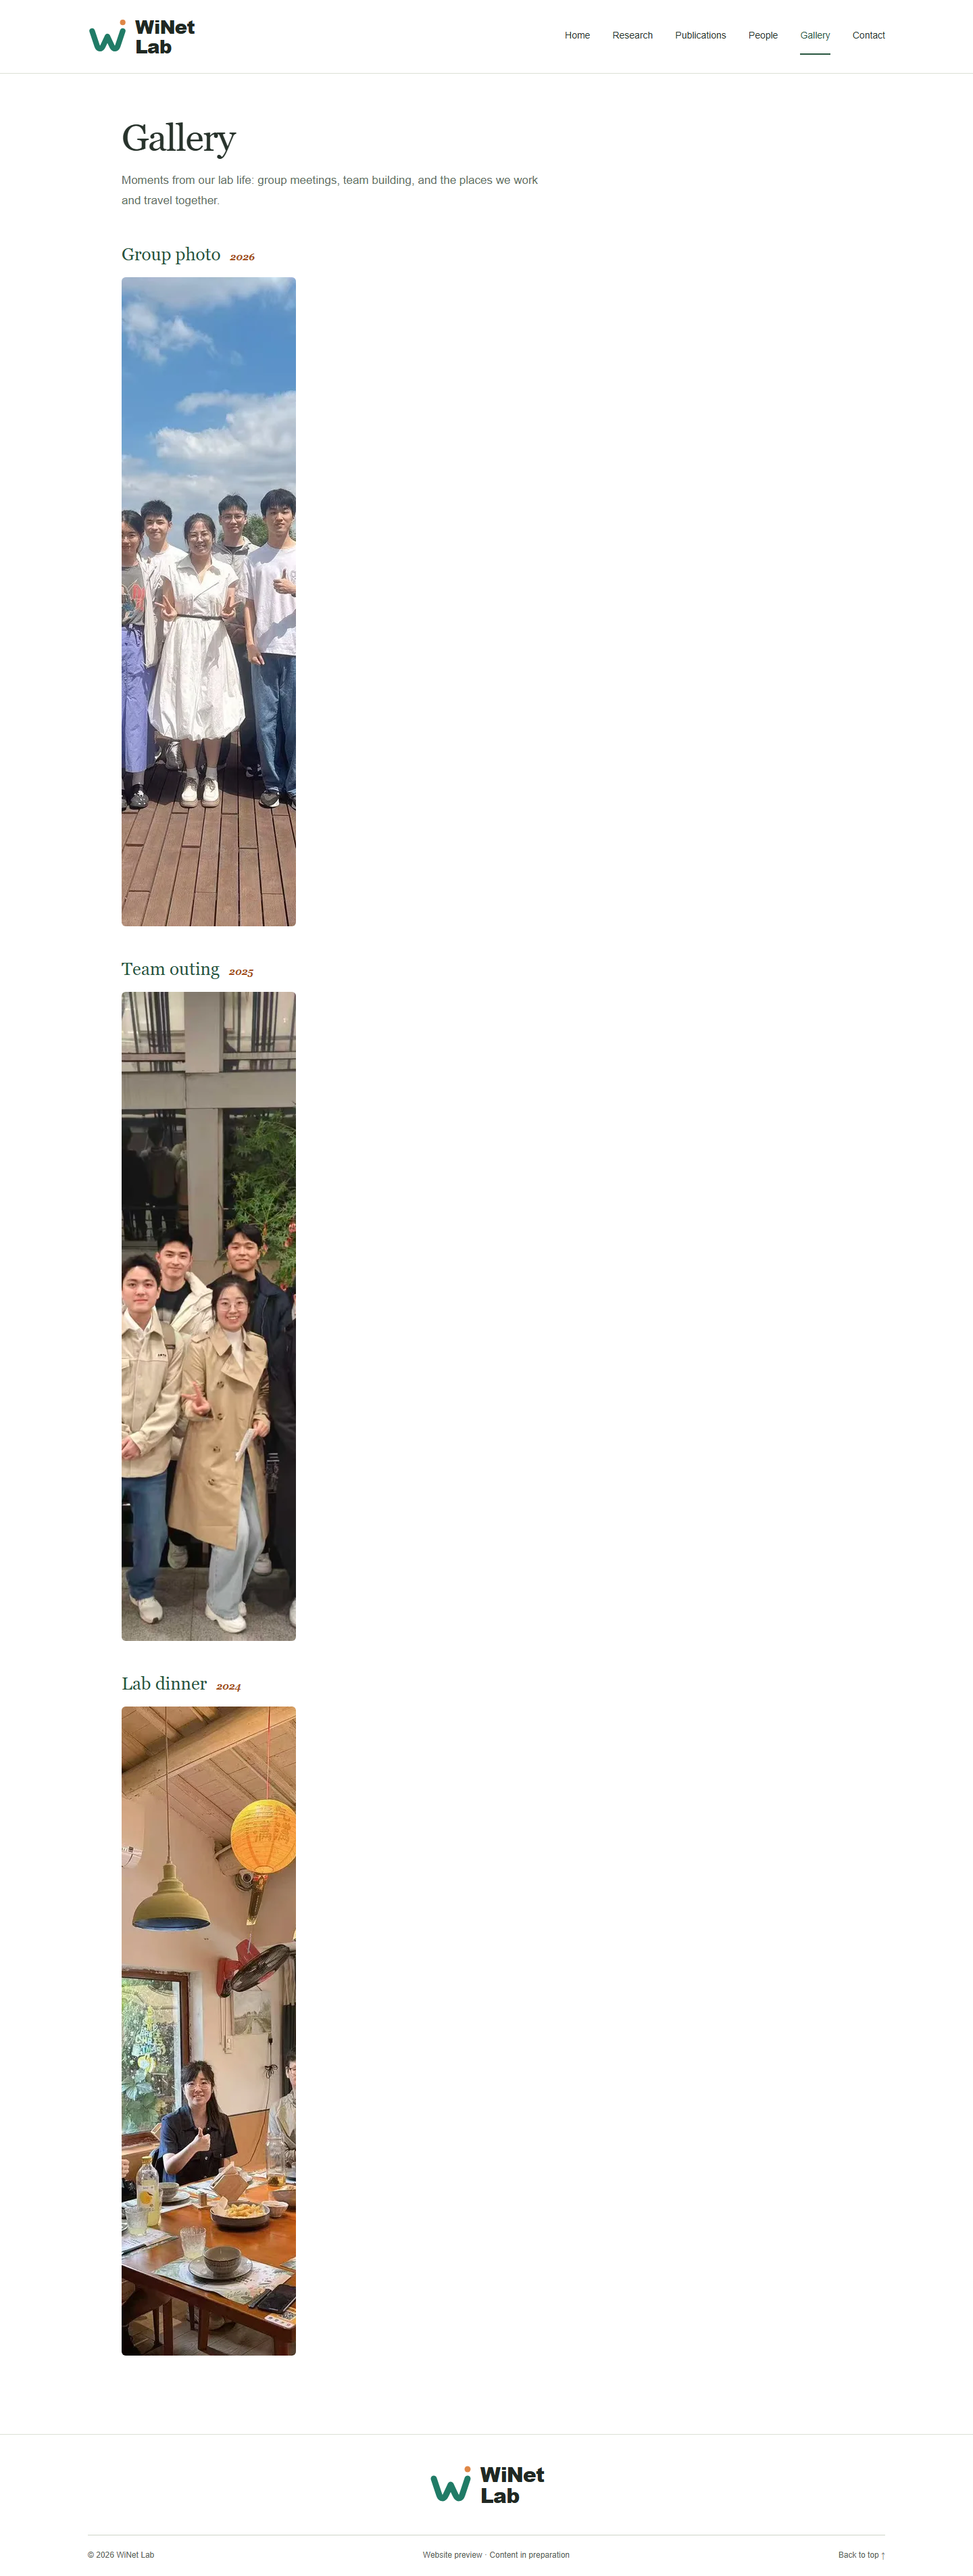
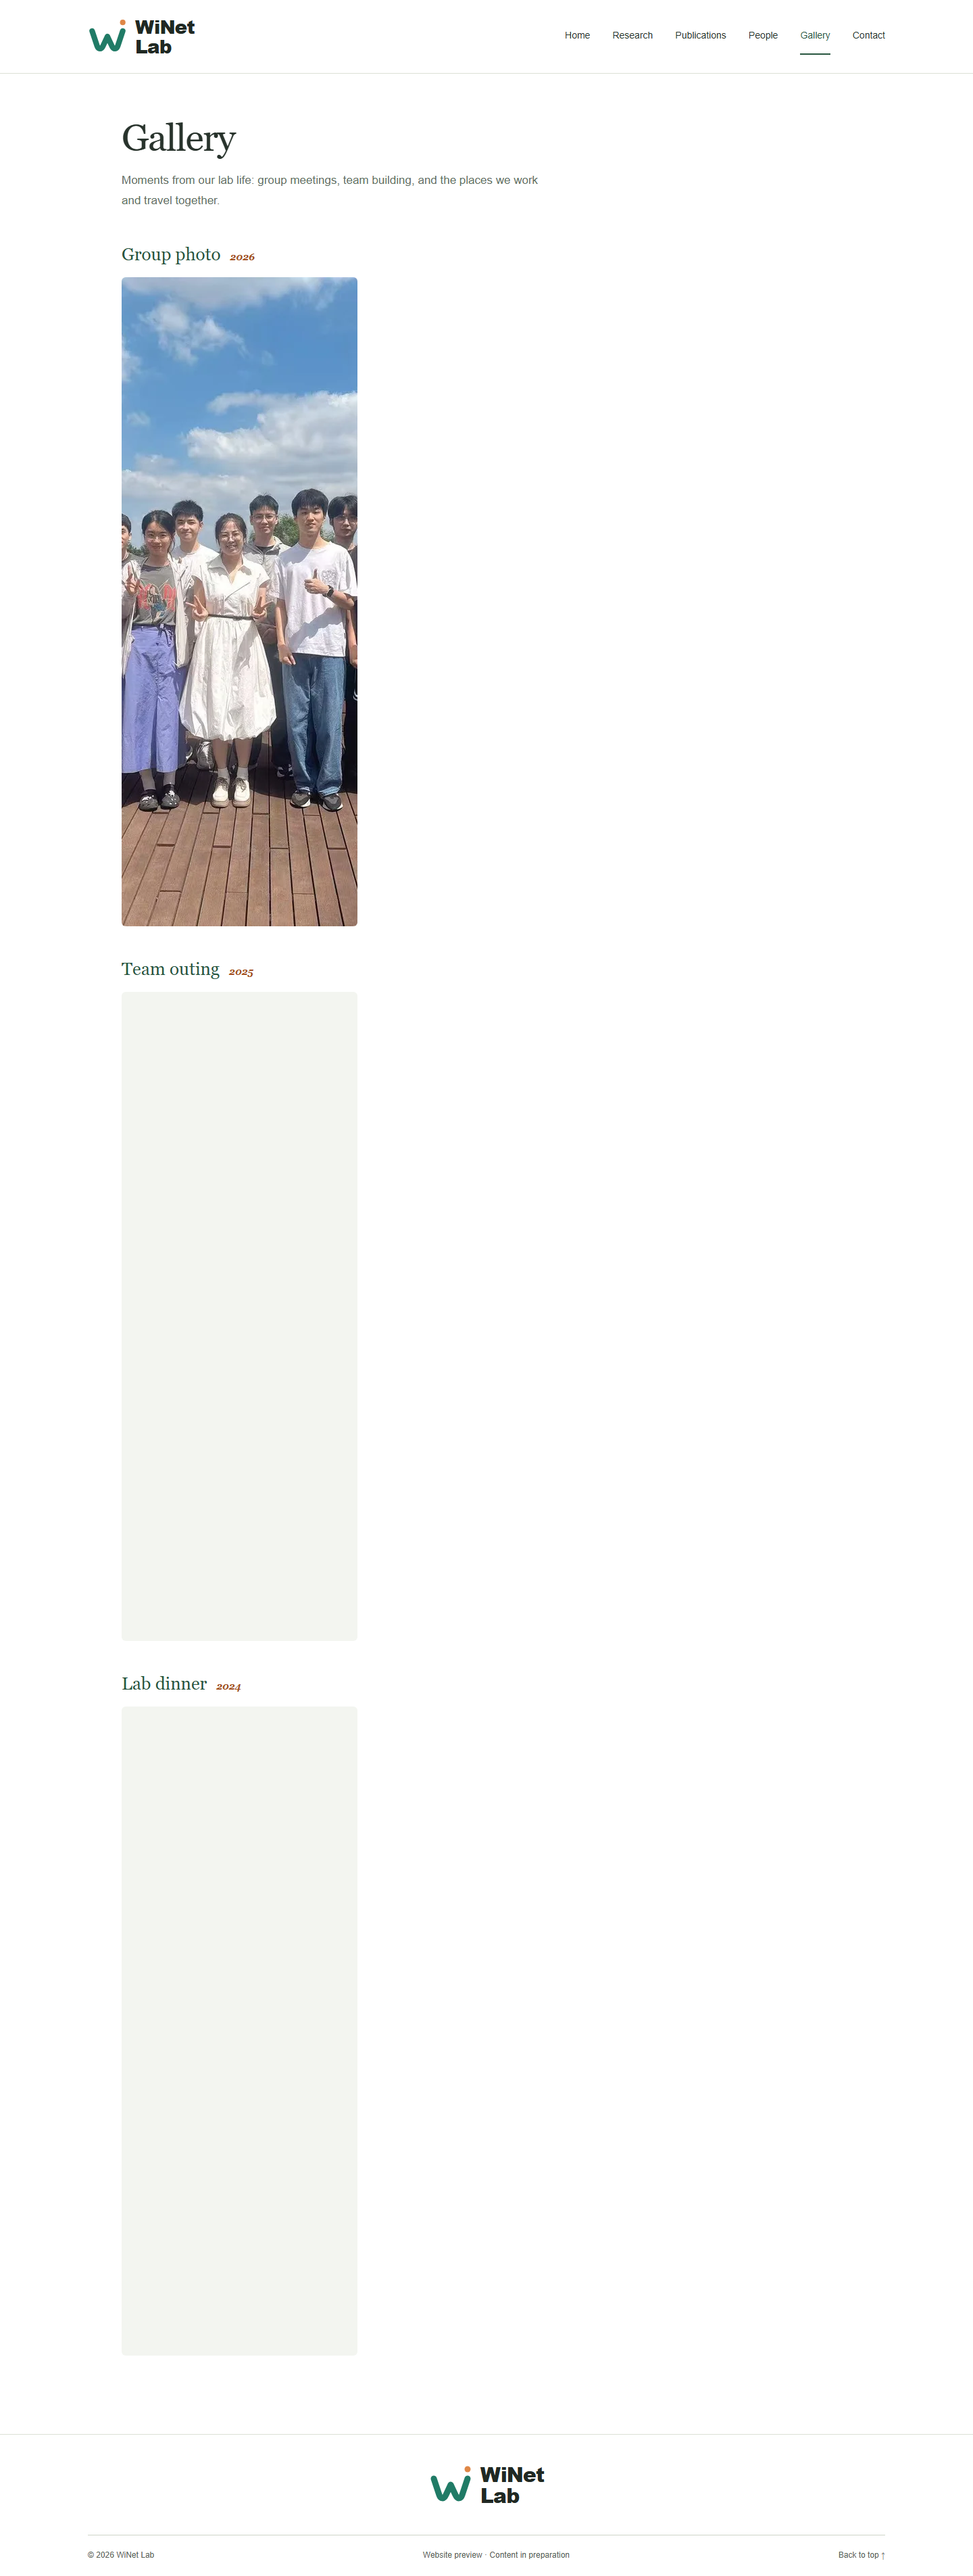
feat: size gallery photos to three per row

Changed region(s): [[0.125, 0.0937, 0.375, 0.937]]

diff --git a/docs/verification/gallery-2026-09-22.md b/docs/verification/gallery-2026-09-22.md
@@ -36,6 +36,10 @@ astro check 零错误（修复空 groups 的 never[] 类型推断）；两种 ba
 
 验证：astro check零错误、两种base构建22页、check-gallery两种base通过、17项Playwright测试通过；桌面截图目视确认2026在上/静态统一尺寸/无缺陷（[desktop](gallery-2026-09-22-desktop.png)）。本地Git提交，未推送。
 
+## 改版：一行三列（同日，本地完成，未发布）
+
+用户要求照片小一些、一行三张。`.gallery-grid` 桌面由 auto-fill minmax(230px) 改为固定 `repeat(3, 1fr)`（手机保持自适应小图）；check-gallery 新增断言：1440px 下每张照片宽度=网格三分之一（±8px）。两种base检查、17项测试通过；截图目视确认照片约为内容区三分之一宽、布局协调。本地Git提交，未推送。
+
 ## 后续（图片到位时）
 
 原图放 `resources/gallery/<活动>/`，用 sharp（EXIF 矫正、长边≤1280、有损 WebP q82）输出 `public/gallery/<组id>/<照片id>.webp`，按 schema 填 gallery.json 即可，页面/灯箱自动生效，无需改代码。灯箱交互（切换/Esc/焦点）届时需按本记录复验。
